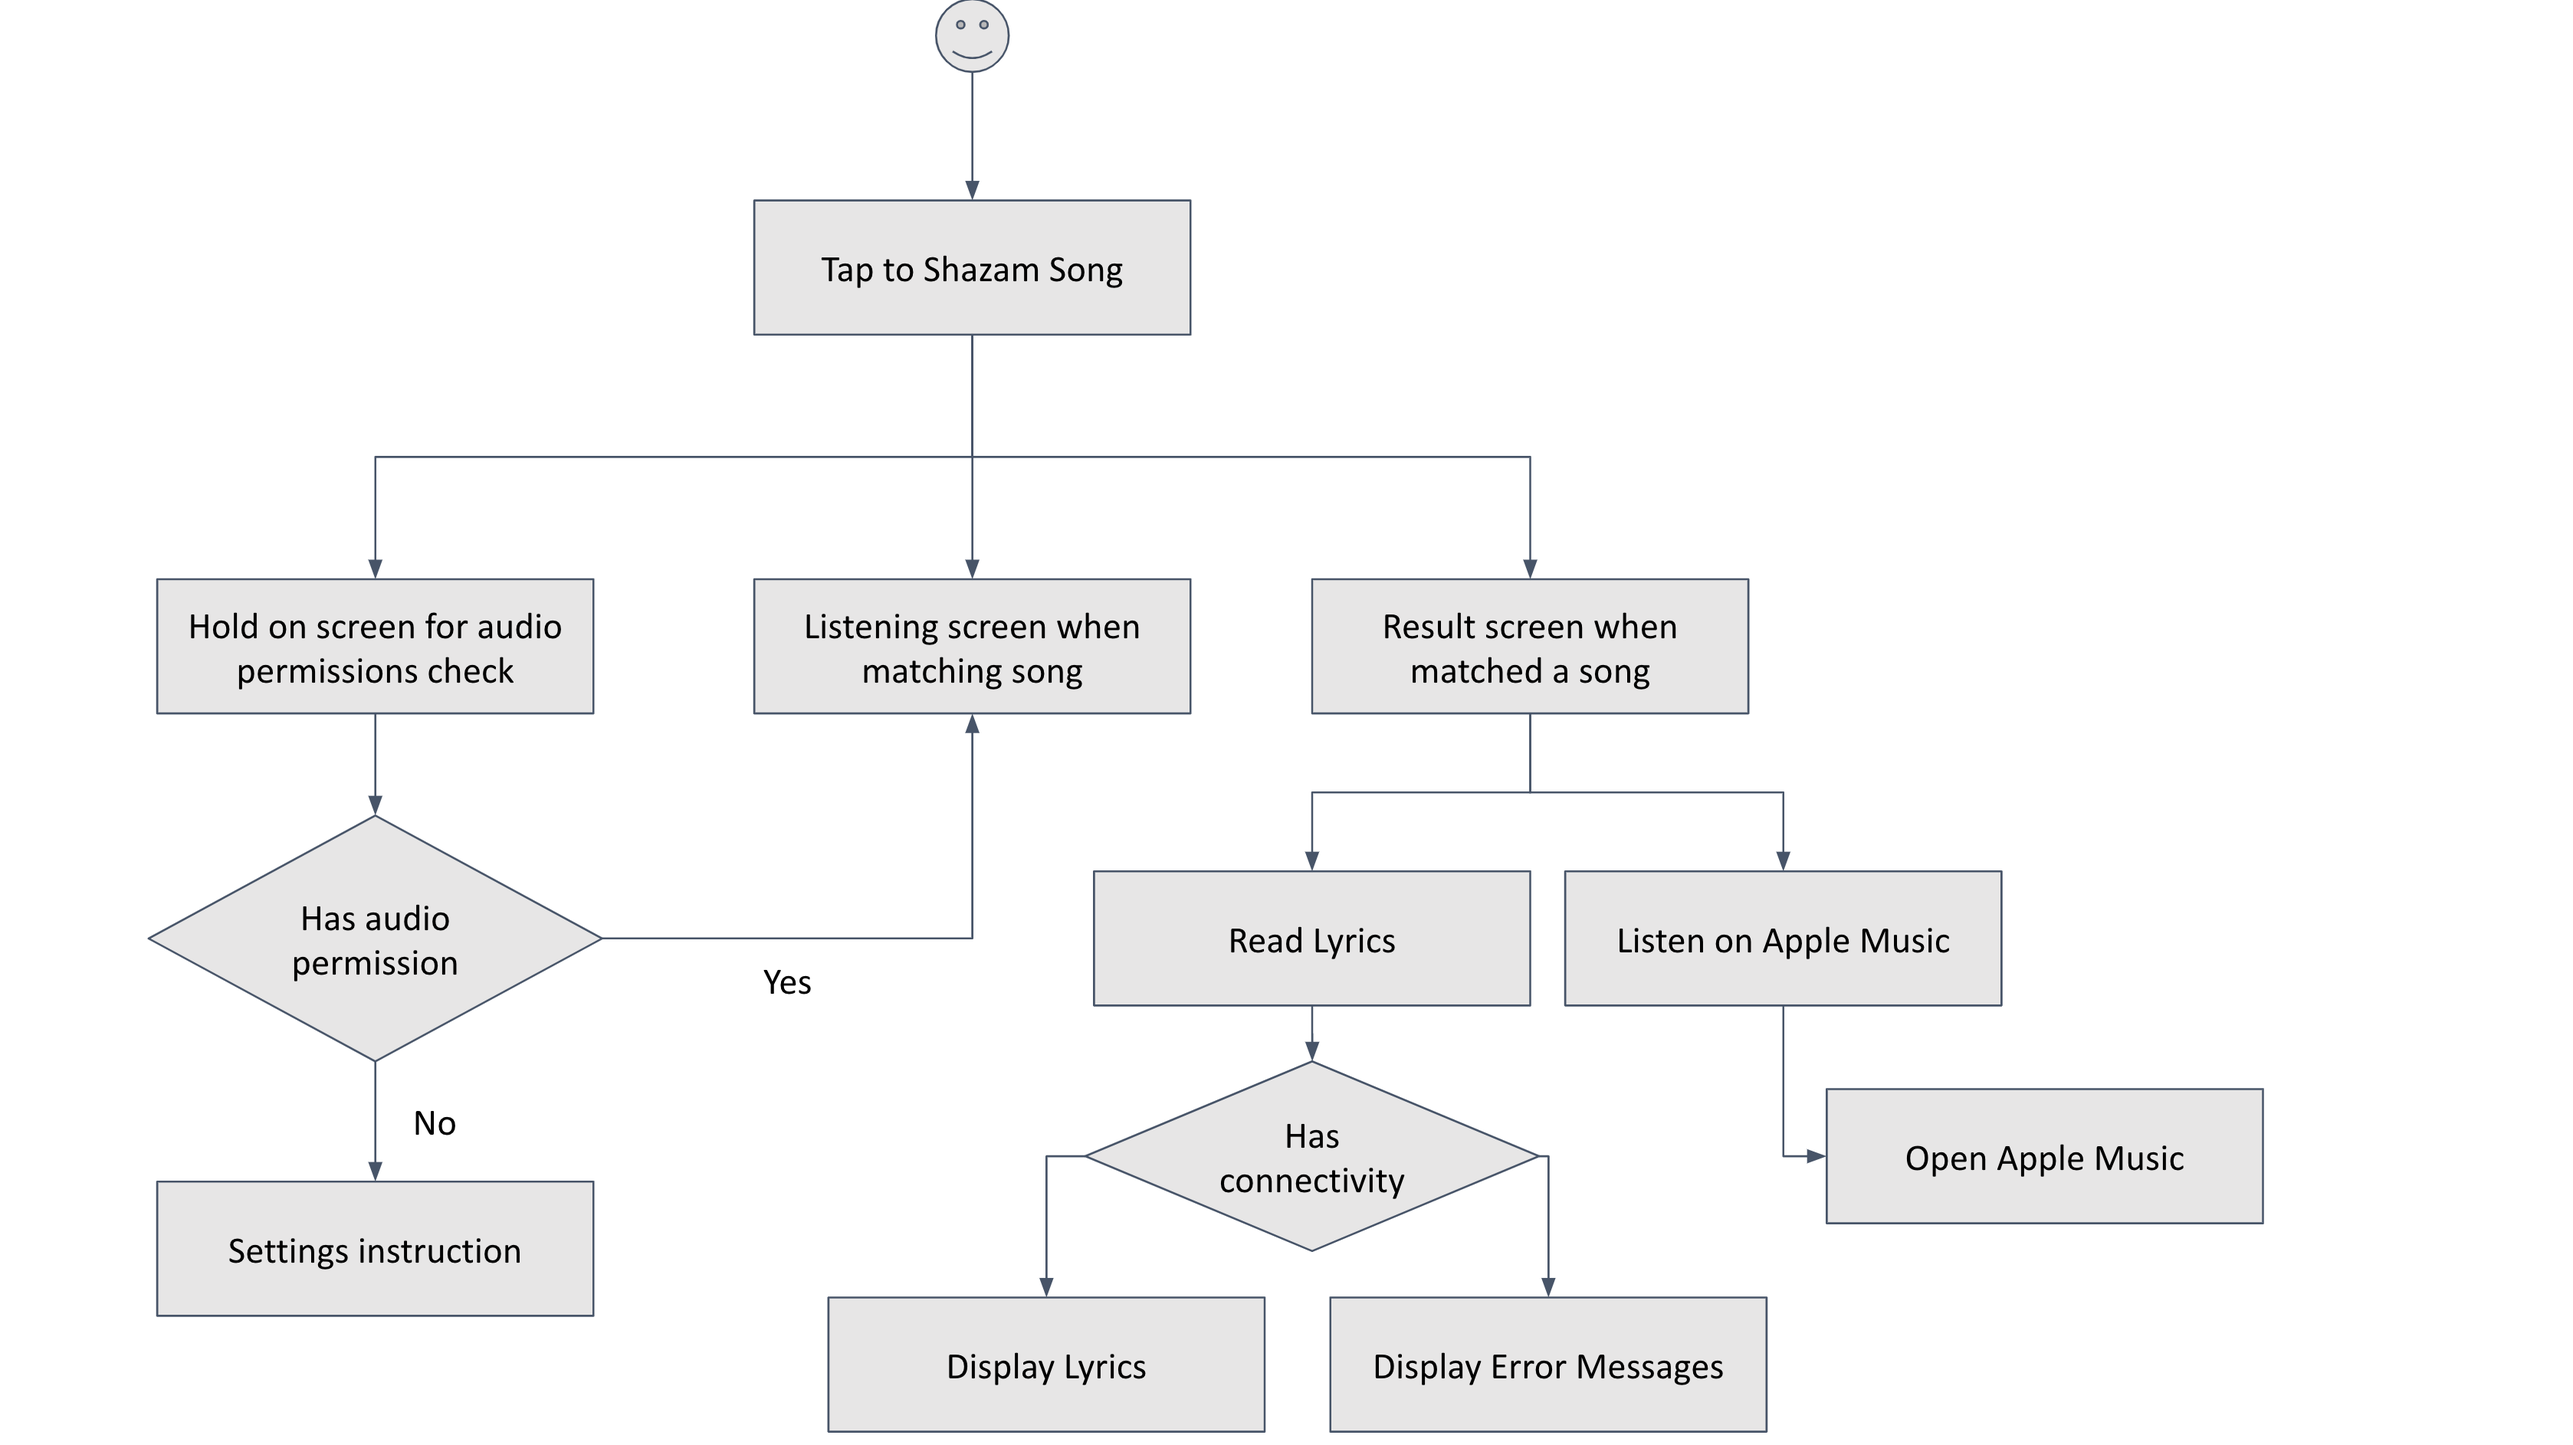
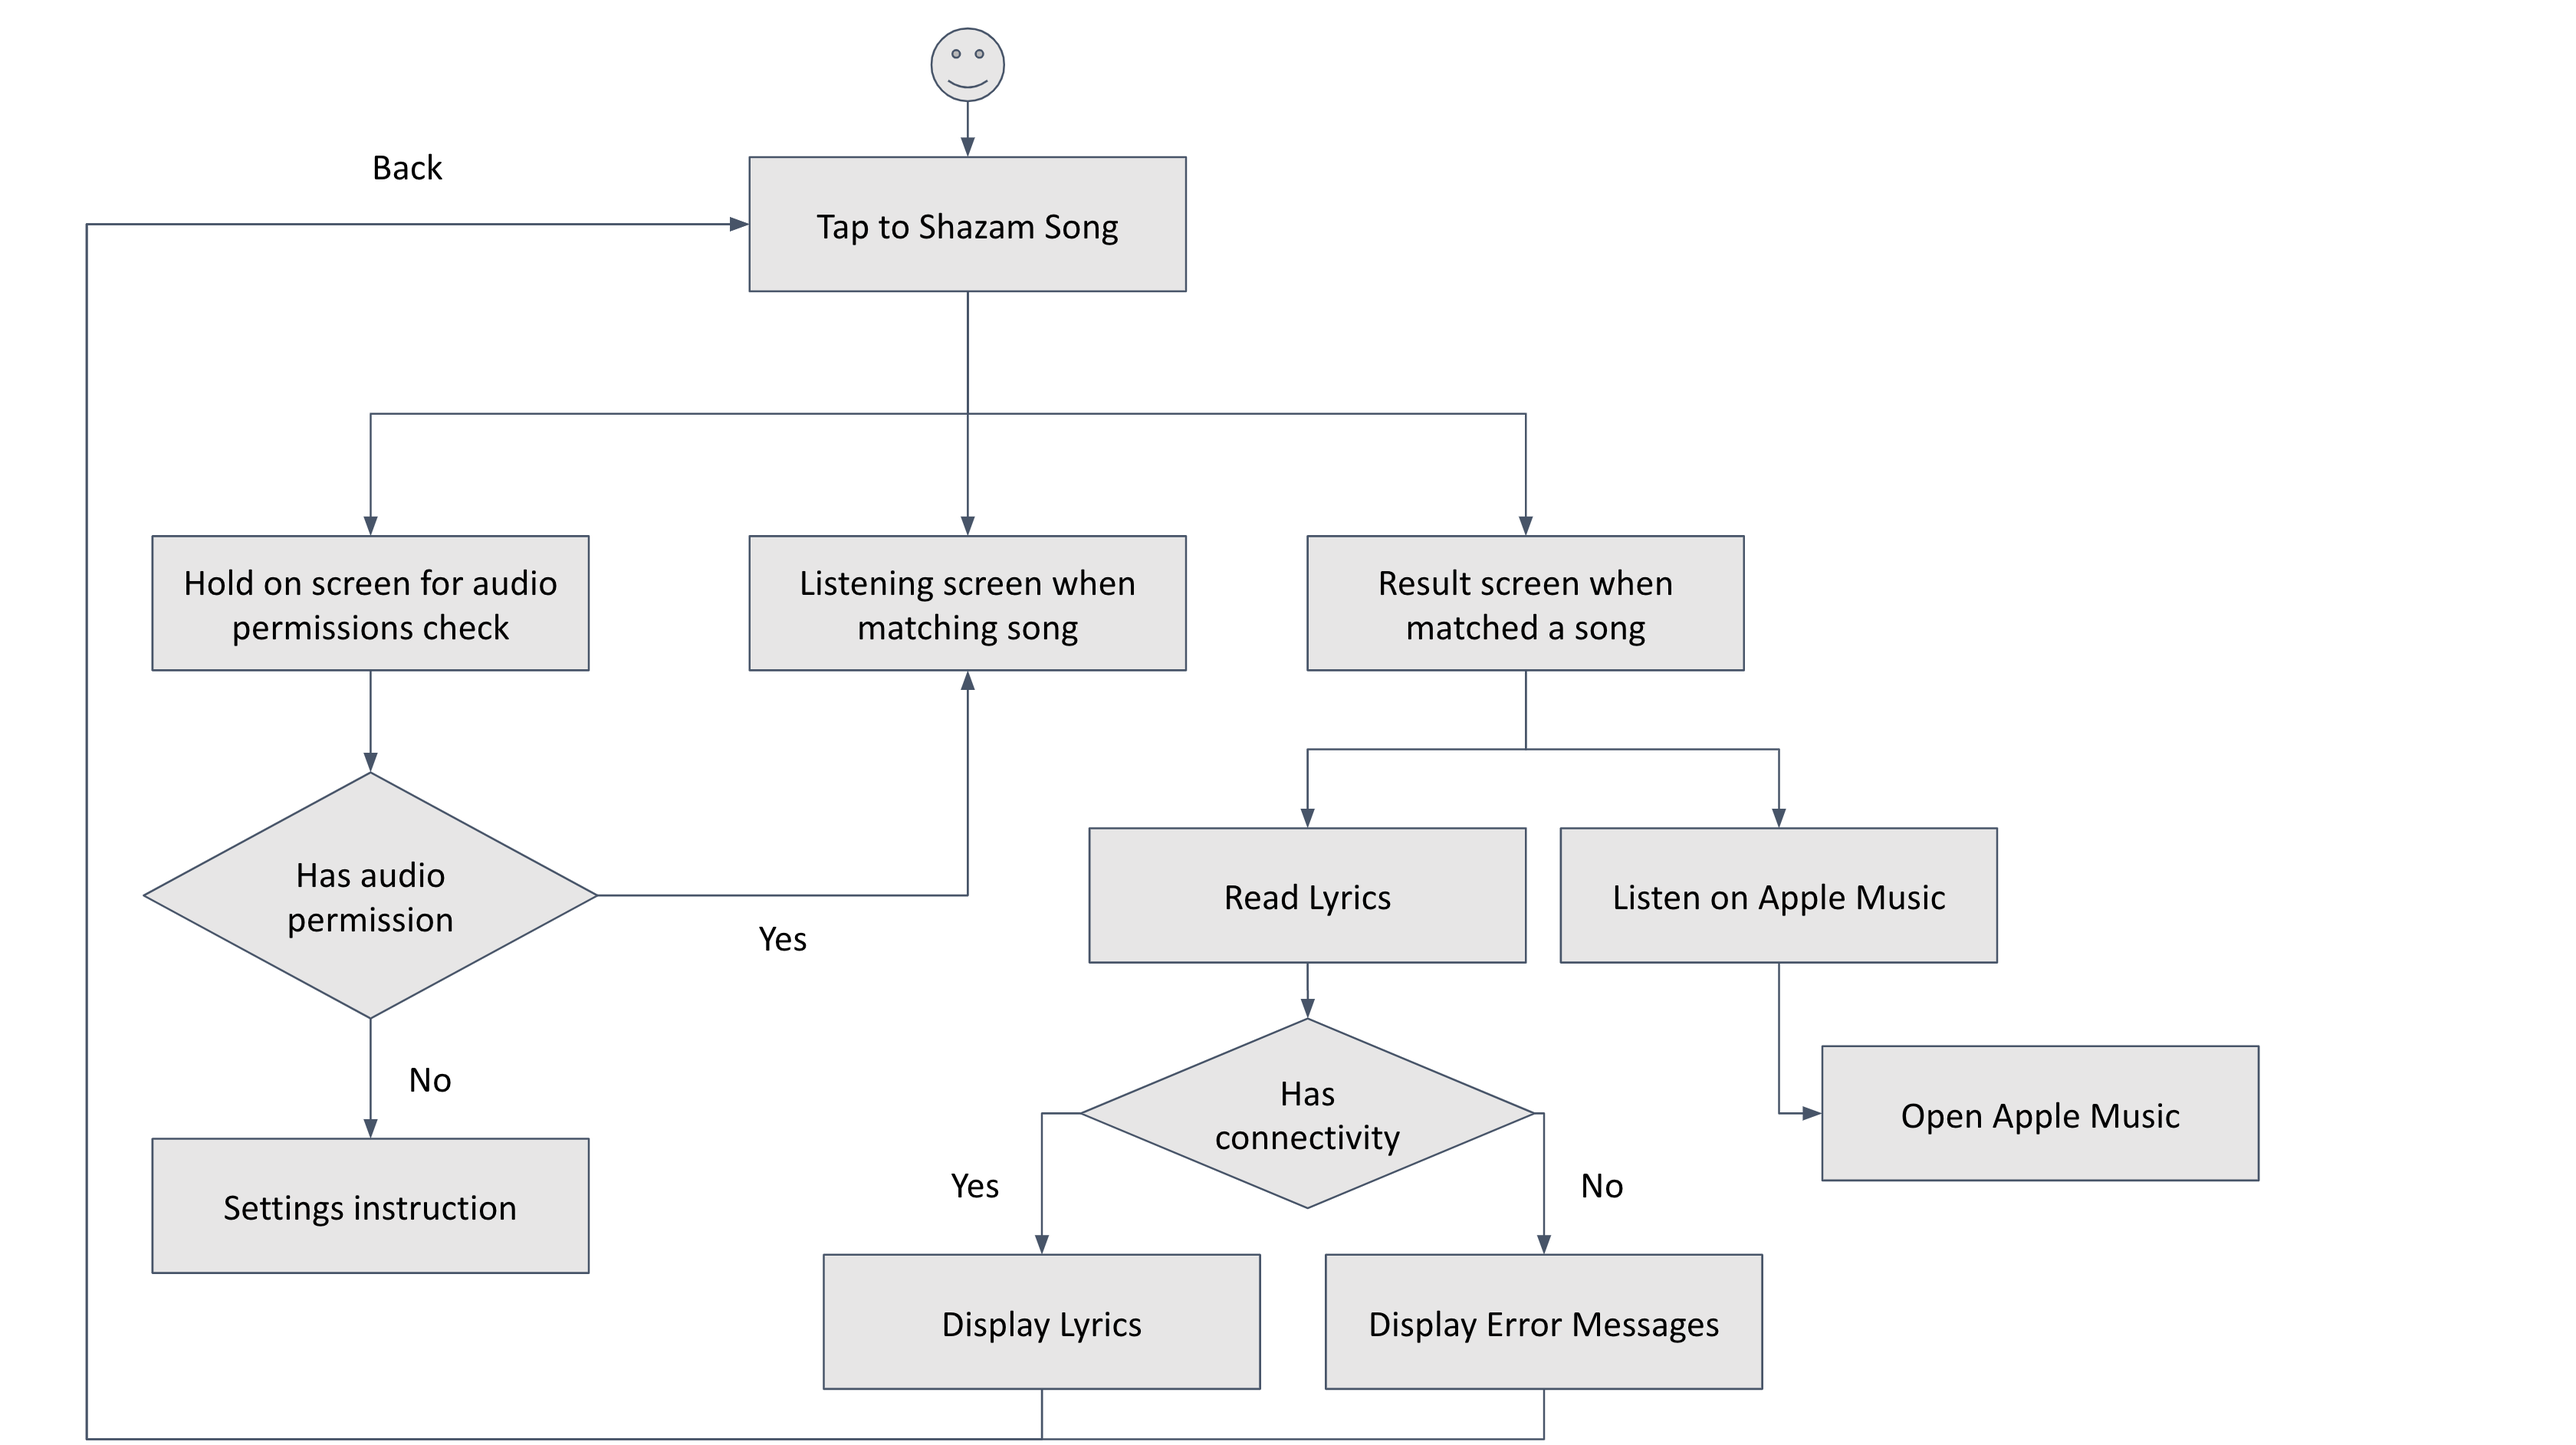
Fix: Update doc (#18)
* Update UI-related property on Main thread

* Update flowchart

* fix swift concurrency on stop matching and end session

diff --git a/LyricsPieces/Data/ShazamMatcher.swift b/LyricsPieces/Data/ShazamMatcher.swift
@@ -41,13 +41,16 @@ final class ShazamMatcher: ObservableObject {
         let result = await session.result()
         switch result {
         case .match(let match):
+            await stopMatching()
             await endSession(with: match)
         case .noMatch(_):
             debugPrint("No match")
-            await endSession()
+            await stopMatching()
+            await endSession(with: nil)
         case .error(let error, _):
             debugPrint("Error \(error.localizedDescription)")
-            await endSession()
+            await stopMatching()
+            await endSession(with: nil)
         }
     }
     
@@ -57,19 +60,10 @@ final class ShazamMatcher: ObservableObject {
         }
     }
     
-    func endSession(with match: SHMatch) async {
+    func endSession(with match: SHMatch?) async {
         Task {
+            isMatching = false
             currentMatchResult = ShazamMatchResult(match: match)
-            isMatching = false
-            await stopMatching()
-        }
-    }
-    
-    func endSession() async {
-        Task {
-            session.cancel()
-            isMatching = false
-            currentMatchResult = ShazamMatchResult(match: nil)
         }
     }
 }

diff --git a/LyricsPiecesTests/Data/ShazamMatcherTests.swift b/LyricsPiecesTests/Data/ShazamMatcherTests.swift
@@ -70,8 +70,9 @@ final class ShazamMatcherTests: XCTestCase {
         var matcher: ShazamMatcher? = ShazamMatcher(session: session)
         
         try await matcher?.match()
-        matcher = nil
+        XCTAssertEqual(session.cancelCallCount, 1)
         
+        matcher = nil
         XCTAssertNil(matcher)
     }
     
@@ -83,9 +84,10 @@ final class ShazamMatcherTests: XCTestCase {
         XCTAssertEqual(session.cancelCallCount, 0)
         
         try await matcher?.match()
-        matcher = nil
-        
         XCTAssertEqual(session.cancelCallCount, 1)
+        
+        matcher = nil
+        XCTAssertNil(matcher)
     }
     
     @MainActor
@@ -99,8 +101,9 @@ final class ShazamMatcherTests: XCTestCase {
         XCTAssertEqual(session.cancelCallCount, 0)
         
         try await matcher?.match()
-        matcher = nil
-        
         XCTAssertEqual(session.cancelCallCount, 1)
+        
+        matcher = nil
+        XCTAssertNil(matcher)
     }
 }
